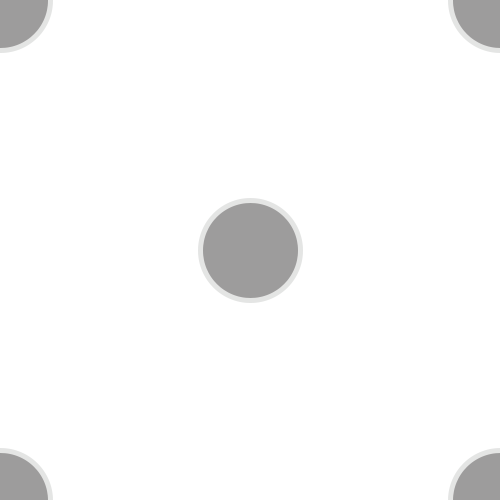
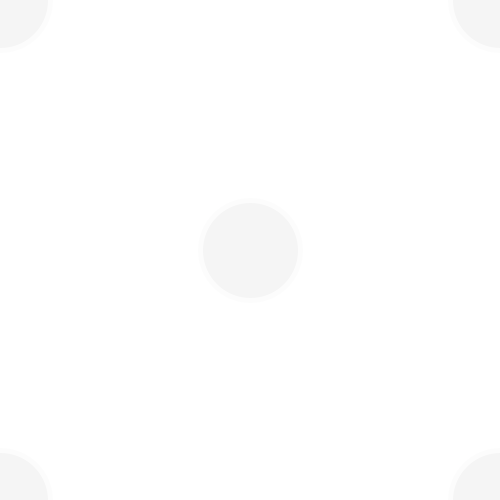
Add files via upload

diff --git a/assets/css/style.less b/assets/css/style.less
@@ -46,14 +46,26 @@ body {
 }
 
 html,body {
-  width: 100%;
-  height: 100%;
+  min-width: 100%;
+  min-height: 100%;
+}
+
+html {
+  background-image: url(../img/media/background.png);
+  background-size: 2%;
 }
 
 .container {
   margin: auto;
   max-width: 1000px;
   min-width: 600px;
+  height: inherit;
+}
+
+content {
+  display: block;
+  padding: 0;
+  margin: 0;
   height: 100%;
 }
 
@@ -150,18 +162,6 @@ select:last-child {
   transition: stroke 0.2s ease;
   stroke-width: 6px;
   stroke: rgb(255, 128, 128);
-}
-
-.background {
-  position: absolute;
-  height: 100%;
-  width: 100%;
-  left: 0;
-  top: 0;
-  z-index: -1;
-  background-image: url(../img/media/background.png);
-  background-size: 2vh;
-  opacity: 0.1;
 }
 
 .to-cart {
@@ -305,7 +305,7 @@ select:last-child {
 Header styles
 *************/
 
-.header {
+header {
   padding-top: 25px;
   padding-bottom: 25px;
   height: 35px;
@@ -316,7 +316,7 @@ Header styles
   min-width: 100%;
 }
 
-.header {
+header {
   .container {
     display: flex;
     justify-content: space-between;
@@ -404,7 +404,7 @@ Header styles
   }
 
   .button-cart::before {
-    .insert-svg("img/shopping_cart_FILL0_wght400_GRAD0_opsz48.svg");
+    .insert-svg("../img/shopping_cart_FILL0_wght400_GRAD0_opsz48.svg");
   }
 
   .button-register::before {
@@ -1288,4 +1288,18 @@ section {
   h1 {
     color: gray;
   }
+}
+
+/*****************
+Footer Styles
+******************/
+
+footer {
+  padding-top: 25px;
+  padding-bottom: 25px;
+  height: 50px;
+  box-shadow: 0 0 2px 0 rgba(@shadow-color, 0.14),
+    0 -2px 2px 0 rgba(@shadow-color, 0.12), 0 -1px 3px 0 rgba(@shadow-color, 0.2);
+  margin-top: 20px;
+  background-color: @background-color;
 }

diff --git a/about_company.php b/about_company.php
@@ -3,90 +3,97 @@ require_once 'header.php';
 require_once 'assets/php/connection.php';
 ?>
 
-<div class="about-page">
-    <div class="container">
-        <div class="quiz-wrapper">
-            <div class="quiz">
-                <div class="hide">
-                    <svg viewBox="0 0 50 50">
-                        <path class="st1" d="M5,5c13.33,13.33,26.67,26.67,40,40" />
-                        <path class="st1" d="M45,5C31.67,18.33,18.33,31.67,5,45" />
+<content>
+    <div class="about-page">
+        <div class="container">
+            <div class="quiz-wrapper">
+                <div class="quiz">
+                    <div class="hide">
+                        <svg viewBox="0 0 50 50">
+                            <path class="st1" d="M5,5c13.33,13.33,26.67,26.67,40,40" />
+                            <path class="st1" d="M45,5C31.67,18.33,18.33,31.67,5,45" />
+                        </svg>
+                    </div>
+                    <p>Тест о компании</p>
+                    <form class="standard-form">
+                        <!-- Form making by JS -->
+                    </form>
+                </div>
+                <div class="quiz-result">
+                    <p>Результаты теста</p>
+                    <p class="result-text"></p>
+                </div>
+            </div>
+            <div class="about">
+                <img src="../assets/img/logo.png" alt="">
+                <p class="title">Copy Star</p>
+                <div>
+                    <p>Компания CopyStar основана Иваном Ивановичем в 2004 году. Компания специализируется на производстве копировального оборудования. Главный офис находится в Москве.</p>
+                </div>
+                <a class="show-quiz">Пройти тест</a>
+            </div>
+    
+            <div class="slider">
+                <div class="slider-arrow left">
+                    <svg xmlns="http://www.w3.org/2000/svg" viewBox="0 0 140 460">
+                        <polyline class="st0" points="10.95,10.16 120.95,230.16 10.95,450.16 " />
                     </svg>
                 </div>
-                <p>Тест о компании</p>
-                <form class="standard-form">
-                    <!-- Form making by JS -->
-                </form>
-            </div>
-            <div class="quiz-result">
-                <p>Результаты теста</p>
-                <p class="result-text"></p>
-            </div>
-        </div>
-        <div class="about">
-            <img src="../assets/img/logo.png" alt="">
-            <p class="title">Copy Star</p>
-            <div>
-                <p>Компания CopyStar основана Иваном Ивановичем в 2004 году. Компания специализируется на производстве копировального оборудования. Главный офис находится в Москве.</p>
-            </div>
-            <a class="show-quiz">Пройти тест</a>
-        </div>
-
-        <div class="slider">
-            <div class="slider-arrow left">
-                <svg xmlns="http://www.w3.org/2000/svg" viewBox="0 0 140 460">
-                    <polyline class="st0" points="10.95,10.16 120.95,230.16 10.95,450.16 " />
-                </svg>
-            </div>
-            <div class="slider-content">
-                <p>5 последних товаров</p>
-                <div class="slider-line">
-
-                    <?php
-                    //Getting data from database
-                    $query = "SELECT `product_id`, `name`, `price`, `description`, `img_url` FROM product WHERE `qnt` > 0 ORDER BY date_added DESC LIMIT 5";
-                    if ($result = mysqli_query($link, $query)) {
-                        if (mysqli_num_rows($result) > 4) {
-                            while ($row = mysqli_fetch_array($result)) {
-                                $product_id = $row['product_id'];
-                                $name = $row['name'];
-                                $price = $row['price'];
-                                $description = $row['description'];
-                                $img_url = $row['img_url'];
-
-                                //Making item card
-                                echo "<div class='catalog-item'>
-                        <div class='item-left'>
-                            <span>$name</span>
-                            <p>$description</p>
-                            <a href='product.php?product_id=$product_id'>Страница товара</a>
-                            <span>$price р.</span>
-                        </div>
-                        <div class='item-right'>
-                            <img src='../assets/$img_url'>
-                        </div>
-                    </div>";
+                <div class="slider-content">
+                    <p>5 последних товаров</p>
+                    <div class="slider-line">
+    
+                        <?php
+                        //Getting data from database
+                        $query = "SELECT `product_id`, `name`, `price`, `description`, `img_url` FROM product WHERE `qnt` > 0 ORDER BY date_added DESC LIMIT 5";
+                        if ($result = mysqli_query($link, $query)) {
+                            if (mysqli_num_rows($result) > 4) {
+                                while ($row = mysqli_fetch_array($result)) {
+                                    $product_id = $row['product_id'];
+                                    $name = $row['name'];
+                                    $price = $row['price'];
+                                    $description = $row['description'];
+                                    $img_url = $row['img_url'];
+    
+                                    //Making item card
+                                    echo "<div class='catalog-item'>
+                            <div class='item-left'>
+                                <span>$name</span>
+                                <p>$description</p>
+                                <a href='product.php?product_id=$product_id'>Страница товара</a>
+                                <span>$price р.</span>
+                            </div>
+                            <div class='item-right'>
+                                <img src='../assets/$img_url'>
+                            </div>
+                        </div>";
+                                }
+                            } else {
+                                //If error, show message or hide slider
+                                echo "<p>Недостаточно подходящих товаров для формирования списка</p>";
                             }
                         } else {
-                            //If error, show message or hide slider
-                            echo "<p>Недостаточно подходящих товаров для формирования списка</p>";
+                            echo "<p>Не удалось получить данные, попробуйте обновить страницу</p>";
                         }
-                    } else {
-                        echo "<p>Не удалось получить данные, попробуйте обновить страницу</p>";
-                    }
-
-                    mysqli_close($link);
-                    ?>
+    
+                        mysqli_close($link);
+                        ?>
+                    </div>
                 </div>
-            </div>
-            <div class="slider-arrow right">
-                <svg xmlns="http://www.w3.org/2000/svg" viewBox="0 0 140 460">
-                    <polyline class="st0" points="10.95,10.16 120.95,230.16 10.95,450.16 " />
-                </svg>
+                <div class="slider-arrow right">
+                    <svg xmlns="http://www.w3.org/2000/svg" viewBox="0 0 140 460">
+                        <polyline class="st0" points="10.95,10.16 120.95,230.16 10.95,450.16 " />
+                    </svg>
+                </div>
             </div>
         </div>
     </div>
-</div>
+    
+    <div class="background"></div>
+</content>
 
-<div class="background"></div>
+<?php
+require_once 'footer.php';
+?>
+
 <script src="assets/js/about_page.js"></script>

diff --git a/catalog.php b/catalog.php
@@ -89,16 +89,17 @@ require_once 'assets/php/connection.php';
             </div>
         </div>
     </div>
-</content>
-
-<div class="error-wrapper">
+    <div class="error-wrapper">
     <div class="error">
         <p></p>
         <a class="button enter" href="login.php">Войти</a>
     </div>
 </div>
+</content>
 
-<div class="background"></div>
+<?php
+require_once 'footer.php';
+?>
 
 <script src="assets/js/catalog_handler.js"></script>
 <script src="assets/js/add_to_cart.js"></script>

diff --git a/header.php b/header.php
@@ -9,7 +9,7 @@
     <!-- <link rel="stylesheet" href="assets/css/style.css"> -->
     <link rel="shortcut icon" href="../assets/img/favicon.png" sizes="512x512" type="image/x-icon">
 </head>
-    <div class="header">
+    <header>
         <div class="container">    
             <div class="menus">
                 <a href="about_company.php" class="menu-button button-about">О нас
@@ -35,4 +35,4 @@
             ?>
             
         </div>
-    </div>
+    </header>

diff --git a/product.php b/product.php
@@ -46,14 +46,16 @@ require_once 'assets/php/connection.php';
                     ?>
         </div>
     </div>
-</content>
-
-<div class="error-wrapper">
+    <div class="error-wrapper">
         <div class="error">
             <p></p>
             <a class="button enter" href="login.php">Войти</a>
         </div>
     </div>
+</content>
 
-<div class="background"></div>
+<?php
+require_once 'footer.php';
+?>
+
 <script src="assets/js/add_to_cart.js"></script>

diff --git a/footer.php b/footer.php
@@ -1,3 +1,5 @@
 <footer>
-    
+    <div class="container">
+        Lorem ipsum, dolor sit amet consectetur adipisicing elit. Ducimus, doloribus nulla repellat laboriosam dolor quas vel laborum voluptatem deserunt alias cumque neque atque, recusandae maxime quibusdam quidem nam necessitatibus aliquid!
+    </div>
 </footer>

diff --git a/cart.php b/cart.php
@@ -146,6 +146,8 @@ if (empty($_SESSION["session_username"])) {
     </div>
 </content>  
 
-<div class="background"></div>
+<?php
+require_once 'footer.php';
+?>
 
 <script src="assets/js/cart_handler.js"></script>

diff --git a/register.php b/register.php
@@ -48,6 +48,8 @@ require_once('header.php');
         </div>
 </content>
 
-<div class="background"></div>
+<?php
+require_once 'footer.php';
+?>
 
 <script src="assets/js/register_check.js"></script>

diff --git a/login.php b/login.php
@@ -28,6 +28,8 @@ require_once('header.php');
     </div>
 </content>
 
-<div class="background"></div>
+<?php
+require_once 'footer.php';
+?>
 
 <script src="assets/js/login_check.js"></script>

diff --git a/location.php b/location.php
@@ -38,4 +38,6 @@ require_once 'header.php';
     </div>
 </content>
 
-<div class="background"></div>
+<?php
+require_once 'footer.php';
+?>

diff --git a/client_page.php b/client_page.php
@@ -10,4 +10,6 @@ require_once 'header.php';
     </div>
 </div>
 
-<div class="background"></div>
+<?php
+require_once 'footer.php';
+?>

diff --git a/index.php b/index.php
@@ -1,4 +1,5 @@
 <?php
 require 'header.php';
 require 'catalog.php';
+require_once 'footer.php';
 ?>
